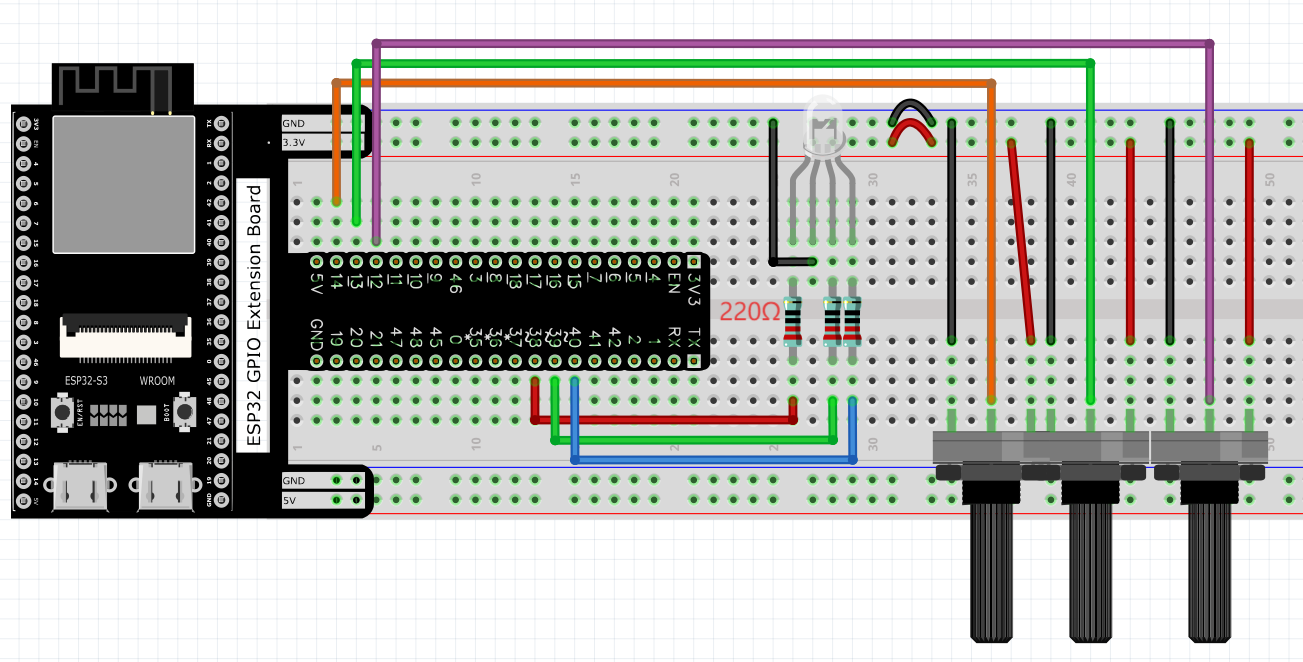
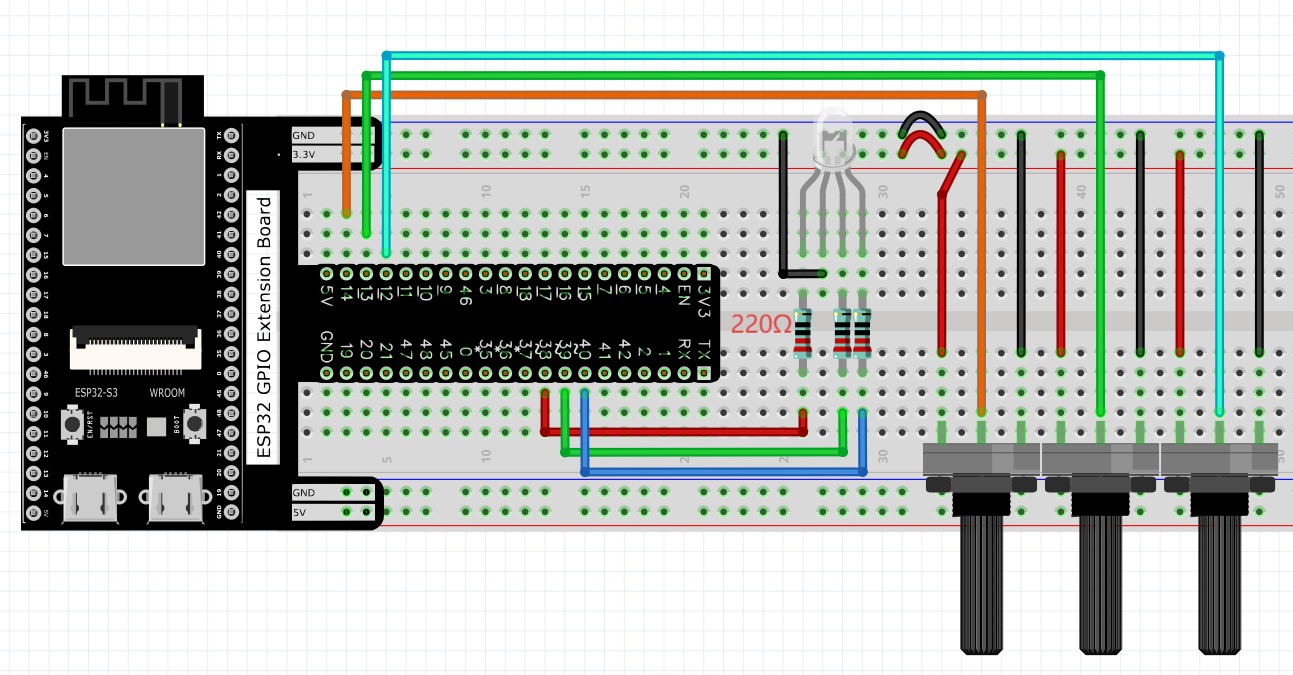
update

diff --git a/docs/source/1.C_Tutorial/10_potentiometer.rst b/docs/source/1.C_Tutorial/10_potentiometer.rst
@@ -96,10 +96,11 @@ The following is the program code:
 
 .. code-block:: C
 
-    const byte adcChns[] = {12, 13, 14};    // define the adc channels
+    const byte adcChns[] = {14, 13, 12};    // define the adc channels
     const byte ledPins[] = {38, 39, 40};    // define led pins
     const byte pwmChns[] = { 0,  1,  2};    // define the pwm channels
     int colors[] = {0, 0, 0};               // red, green ,blue values of color.
+
     void setup() {
     for (int i = 0; i < 3; i++) {         //setup the pwm channels
         ledcAttachChannel(ledPins[i], 1000, 8, pwmChns[i]);//1KHz, 8bit(0-255).
